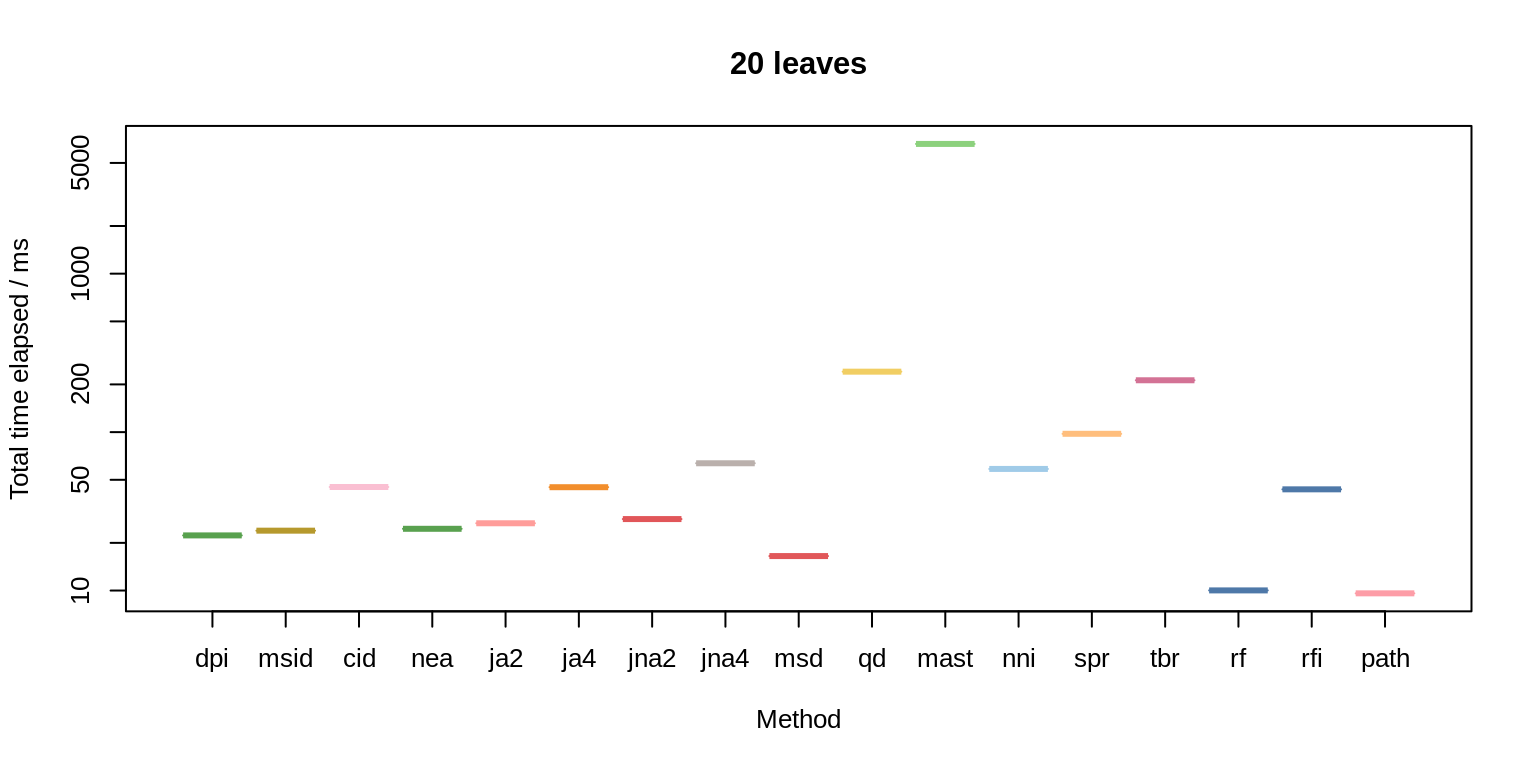
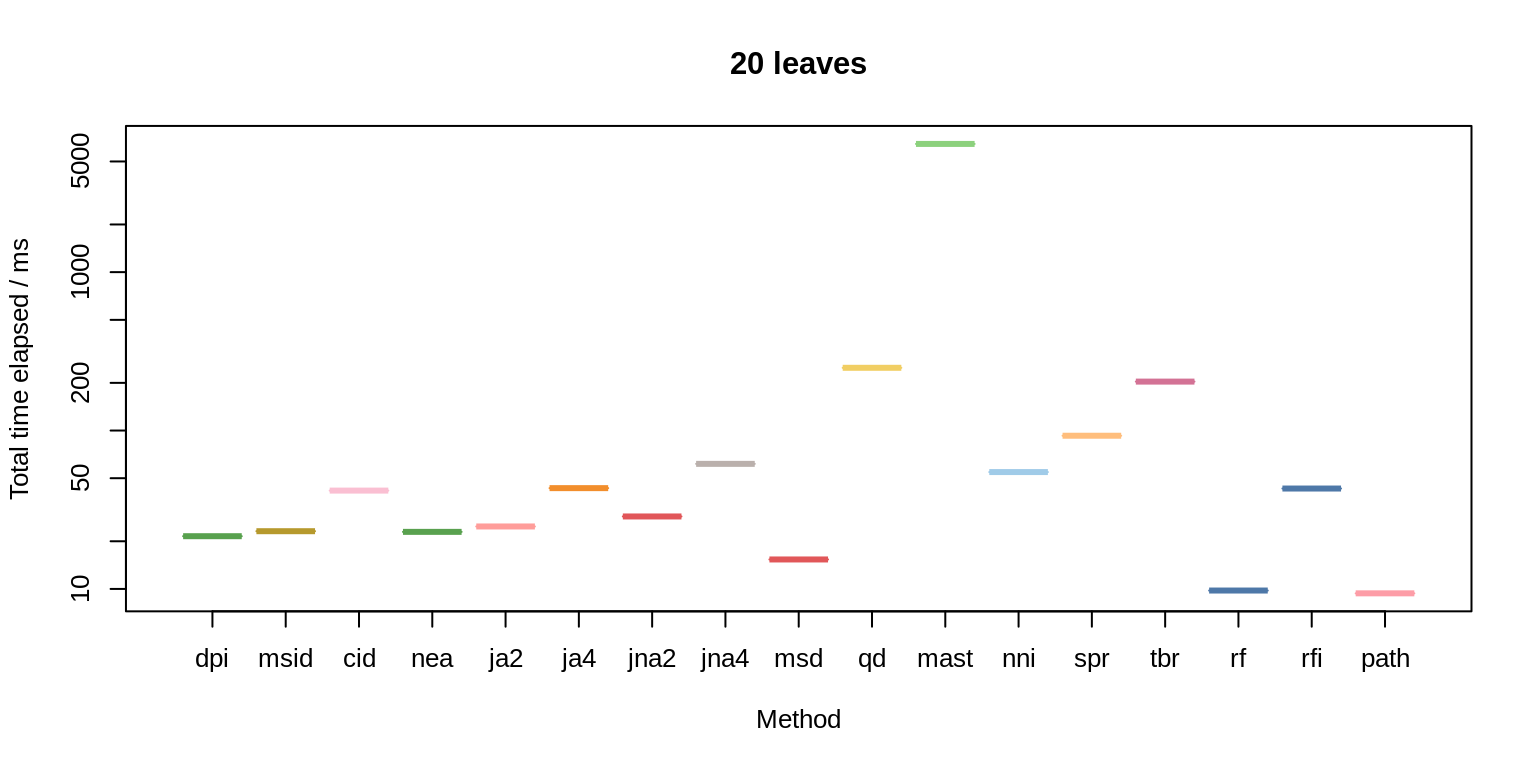
Built site for TreeDistData: 0.0.0.9008@d610ec9

diff --git a/articles/timing.html b/articles/timing.html
@@ -119,7 +119,7 @@
                         <h4 class="author">Martin R. Smith <a href="mailto:martin.smith@durham.ac.uk">martin.smith@durham.ac.uk</a>
 </h4>
             
-            <h4 class="date">2020-02-13</h4>
+            <h4 class="date">2020-02-17</h4>
       
       <small class="dont-index">Source: <a href="https://github.com/ms609/TreeDistData/blob/master/vignettes/timing.Rmd"><code>vignettes/timing.Rmd</code></a></small>
       <div class="hidden name"><code>timing.Rmd</code></div>
@@ -142,88 +142,88 @@
 <tbody>
 <tr class="odd">
 <td>Path</td>
-<td align="right">9.7</td>
-<td align="right">16</td>
+<td align="right">9.5</td>
+<td align="right">14</td>
 </tr>
 <tr class="even">
 <td>Robinson-Foulds</td>
-<td align="right">10.0</td>
-<td align="right">14</td>
+<td align="right">9.9</td>
+<td align="right">12</td>
 </tr>
 <tr class="odd">
 <td>Match. Split Dist.</td>
-<td align="right">17.0</td>
-<td align="right">49</td>
+<td align="right">16.0</td>
+<td align="right">48</td>
 </tr>
 <tr class="even">
 <td>Diff. Phylog. Info</td>
-<td align="right">23.0</td>
-<td align="right">84</td>
+<td align="right">22.0</td>
+<td align="right">88</td>
 </tr>
 <tr class="odd">
-<td>Match. Split Info Dist</td>
-<td align="right">24.0</td>
-<td align="right">160</td>
+<td>Nye et al.</td>
+<td align="right">23.0</td>
+<td align="right">130</td>
 </tr>
 <tr class="even">
-<td>Nye et al.</td>
-<td align="right">25.0</td>
+<td>Match. Split Info Dist</td>
+<td align="right">23.0</td>
 <td align="right">150</td>
 </tr>
 <tr class="odd">
 <td>JRF (k=2, arboreal)</td>
-<td align="right">27.0</td>
-<td align="right">130</td>
+<td align="right">25.0</td>
+<td align="right">120</td>
 </tr>
 <tr class="even">
 <td>JRF (k=2, non-arb.)</td>
 <td align="right">29.0</td>
-<td align="right">180</td>
-</tr>
-<tr class="odd">
-<td>Robinson-Foulds Info</td>
-<td align="right">44.0</td>
-<td align="right">130</td>
-</tr>
-<tr class="even">
-<td>JRF (k=4, arboreal)</td>
-<td align="right">45.0</td>
-<td align="right">570</td>
+<td align="right">170</td>
 </tr>
 <tr class="odd">
 <td>Clust. Info. Dist.</td>
-<td align="right">46.0</td>
-<td align="right">270</td>
+<td align="right">42.0</td>
+<td align="right">260</td>
+</tr>
+<tr class="even">
+<td>Robinson-Foulds Info</td>
+<td align="right">43.0</td>
+<td align="right">130</td>
+</tr>
+<tr class="odd">
+<td>JRF (k=4, arboreal)</td>
+<td align="right">44.0</td>
+<td align="right">540</td>
 </tr>
 <tr class="even">
 <td>NNI (approx.)</td>
-<td align="right">59.0</td>
-<td align="right">91</td>
+<td align="right">55.0</td>
+<td align="right">81</td>
 </tr>
 <tr class="odd">
 <td>JRF (k=4, non-arb.)</td>
-<td align="right">64.0</td>
-<td align="right">910</td>
+<td align="right">62.0</td>
+<td align="right">880</td>
 </tr>
 <tr class="even">
 <td>SPR (approx.)</td>
-<td align="right">99.0</td>
+<td align="right">94.0</td>
 <td align="right">790</td>
 </tr>
 <tr class="odd">
 <td>TBR (approx.)</td>
 <td align="right">210.0</td>
-<td align="right">380</td>
+<td align="right">360</td>
 </tr>
 <tr class="even">
 <td>Quartet</td>
-<td align="right">240.0</td>
-<td align="right">450</td>
+<td align="right">250.0</td>
+<td align="right">440</td>
 </tr>
 <tr class="odd">
 <td>MAST size</td>
-<td align="right">6700.0</td>
-<td align="right">27000</td>
+<td align="right">6500.0</td>
+<td align="right">26000</td>
 </tr>
 </tbody>
 </table>

diff --git a/articles/bullseye-morph.html b/articles/bullseye-morph.html
@@ -119,7 +119,7 @@
                         <h4 class="author">Martin R. Smith <a href="mailto:martin.smith@durham.ac.uk">martin.smith@durham.ac.uk</a>
 </h4>
             
-            <h4 class="date">2020-02-13</h4>
+            <h4 class="date">2020-02-17</h4>
       
       <small class="dont-index">Source: <a href="https://github.com/ms609/TreeDistData/blob/master/vignettes/bullseye-morph.Rmd"><code>vignettes/bullseye-morph.Rmd</code></a></small>
       <div class="hidden name"><code>bullseye-morph.Rmd</code></div>
@@ -128,6 +128,7 @@
 
     
     
+<p>I implemented ‘bullseye’ tests <span class="citation">(Kuhner &amp; Yamato, 2015)</span> by drawing 1 000 <em>n</em>-leaf trees at random from the uniform distribution (using the R function <code><a href="https://rdrr.io/pkg/ape/man/rtree.html">ape::rtree</a></code>, repeated for n = 5, 10, 20, 50), and using these trees to simulate binary phylogenetic characters under the Jukes-Cantor model (using R function phangorn::simSeq).</p>
 <p><img src="bullseye-morph_files/figure-html/bullseye-results-1.png" width="691.2"></p>
 <!--
 PlotMe(4, twoCol, 4.2/4, PlotFunc())
@@ -290,10 +291,26 @@ PlotMe(4, twoCol, 4.2/4, PlotFunc())
 </tr>
 </tbody>
 </table>
+<div id="references" class="section level2 unnumbered">
+<h2 class="hasAnchor">
+<a href="#references" class="anchor"></a>References</h2>
+<div id="refs" class="references">
+<div id="ref-Kuhner2015">
+<p>Kuhner, M. K., &amp; Yamato, J. (2015). Practical performance of tree comparison metrics. <em>Systematic Biology</em>, <em>64</em>(2), 205–214. doi:<a href="https://doi.org/10.1093/sysbio/syu085">10.1093/sysbio/syu085</a></p>
 </div>
+</div>
+</div>
+  </div>
 
   <div class="col-md-3 hidden-xs hidden-sm" id="sidebar">
 
+        <div id="tocnav">
+      <h2 class="hasAnchor">
+<a href="#tocnav" class="anchor"></a>Contents</h2>
+      <ul class="nav nav-pills nav-stacked">
+<li><a href="#references">References</a></li>
+      </ul>
+</div>
       </div>
 
 </div>

diff --git a/articles/saturation-and-sensitivity.html b/articles/saturation-and-sensitivity.html
@@ -118,7 +118,7 @@
       <h1>Saturation and sensitivity</h1>
                         <h4 class="author">Martin R. Smith</h4>
             
-            <h4 class="date">2020-02-13</h4>
+            <h4 class="date">2020-02-17</h4>
       
       <small class="dont-index">Source: <a href="https://github.com/ms609/TreeDistData/blob/master/vignettes/saturation-and-sensitivity.Rmd"><code>vignettes/saturation-and-sensitivity.Rmd</code></a></small>
       <div class="hidden name"><code>saturation-and-sensitivity.Rmd</code></div>

diff --git a/articles/expected-similarity.html b/articles/expected-similarity.html
@@ -118,7 +118,7 @@
       <h1>Expected values for tree distance metrics</h1>
                         <h4 class="author">Martin R. Smith</h4>
             
-            <h4 class="date">2020-02-13</h4>
+            <h4 class="date">2020-02-17</h4>
       
       <small class="dont-index">Source: <a href="https://github.com/ms609/TreeDistData/blob/master/vignettes/expected-similarity.Rmd"><code>vignettes/expected-similarity.Rmd</code></a></small>
       <div class="hidden name"><code>expected-similarity.Rmd</code></div>

diff --git a/articles/correlation.html b/articles/correlation.html
@@ -119,7 +119,7 @@
                         <h4 class="author">Martin R. Smith <a href="mailto:martin.smith@durham.ac.uk">martin.smith@durham.ac.uk</a>
 </h4>
             
-            <h4 class="date">2020-02-13</h4>
+            <h4 class="date">2020-02-17</h4>
       
       <small class="dont-index">Source: <a href="https://github.com/ms609/TreeDistData/blob/master/vignettes/correlation.Rmd"><code>vignettes/correlation.Rmd</code></a></small>
       <div class="hidden name"><code>correlation.Rmd</code></div>

diff --git a/articles/spr-walking.html b/articles/spr-walking.html
@@ -119,7 +119,7 @@
                         <h4 class="author">Martin R. Smith <a href="mailto:martin.smith@durham.ac.uk">martin.smith@durham.ac.uk</a>
 </h4>
             
-            <h4 class="date">2020-02-13</h4>
+            <h4 class="date">2020-02-17</h4>
       
       <small class="dont-index">Source: <a href="https://github.com/ms609/TreeDistData/blob/master/vignettes/spr-walking.Rmd"><code>vignettes/spr-walking.Rmd</code></a></small>
       <div class="hidden name"><code>spr-walking.Rmd</code></div>

diff --git a/articles/tree-shape.html b/articles/tree-shape.html
@@ -119,7 +119,7 @@
                         <h4 class="author">Martin R. Smith <a href="mailto:martin.smith@durham.ac.uk">martin.smith@durham.ac.uk</a>
 </h4>
             
-            <h4 class="date">2020-02-13</h4>
+            <h4 class="date">2020-02-17</h4>
       
       <small class="dont-index">Source: <a href="https://github.com/ms609/TreeDistData/blob/master/vignettes/tree-shape.Rmd"><code>vignettes/tree-shape.Rmd</code></a></small>
       <div class="hidden name"><code>tree-shape.Rmd</code></div>

diff --git a/articles/number-moves-made.html b/articles/number-moves-made.html
@@ -118,7 +118,7 @@
       <h1>Number of moves made</h1>
                         <h4 class="author">Martin R. Smith</h4>
             
-            <h4 class="date">2020-02-13</h4>
+            <h4 class="date">2020-02-17</h4>
       
       <small class="dont-index">Source: <a href="https://github.com/ms609/TreeDistData/blob/master/vignettes/number-moves-made.Rmd"><code>vignettes/number-moves-made.Rmd</code></a></small>
       <div class="hidden name"><code>number-moves-made.Rmd</code></div>

diff --git a/articles/number-tips-moved.html b/articles/number-tips-moved.html
@@ -118,7 +118,7 @@
       <h1>Number of tips moved</h1>
                         <h4 class="author">Martin R. Smith</h4>
             
-            <h4 class="date">2020-02-13</h4>
+            <h4 class="date">2020-02-17</h4>
       
       <small class="dont-index">Source: <a href="https://github.com/ms609/TreeDistData/blob/master/vignettes/number-tips-moved.Rmd"><code>vignettes/number-tips-moved.Rmd</code></a></small>
       <div class="hidden name"><code>number-tips-moved.Rmd</code></div>

diff --git a/articles/Lin.html b/articles/Lin.html
@@ -119,7 +119,7 @@
                         <h4 class="author">Martin R. Smith <a href="mailto:martin.smith@durham.ac.uk">martin.smith@durham.ac.uk</a>
 </h4>
             
-            <h4 class="date">2020-02-13</h4>
+            <h4 class="date">2020-02-17</h4>
       
       <small class="dont-index">Source: <a href="https://github.com/ms609/TreeDistData/blob/master/vignettes/Lin.Rmd"><code>vignettes/Lin.Rmd</code></a></small>
       <div class="hidden name"><code>Lin.Rmd</code></div>

diff --git a/articles/length-of-move.html b/articles/length-of-move.html
@@ -118,7 +118,7 @@
       <h1>Length of move</h1>
                         <h4 class="author">Martin R. Smith</h4>
             
-            <h4 class="date">2020-02-13</h4>
+            <h4 class="date">2020-02-17</h4>
       
       <small class="dont-index">Source: <a href="https://github.com/ms609/TreeDistData/blob/master/vignettes/length-of-move.Rmd"><code>vignettes/length-of-move.Rmd</code></a></small>
       <div class="hidden name"><code>length-of-move.Rmd</code></div>

diff --git a/articles/heterogeneity.html b/articles/heterogeneity.html
@@ -118,7 +118,7 @@
       <h1>Heterogeneity</h1>
                         <h4 class="author">Martin R. Smith</h4>
             
-            <h4 class="date">2020-02-13</h4>
+            <h4 class="date">2020-02-17</h4>
       
       <small class="dont-index">Source: <a href="https://github.com/ms609/TreeDistData/blob/master/vignettes/heterogeneity.Rmd"><code>vignettes/heterogeneity.Rmd</code></a></small>
       <div class="hidden name"><code>heterogeneity.Rmd</code></div>
